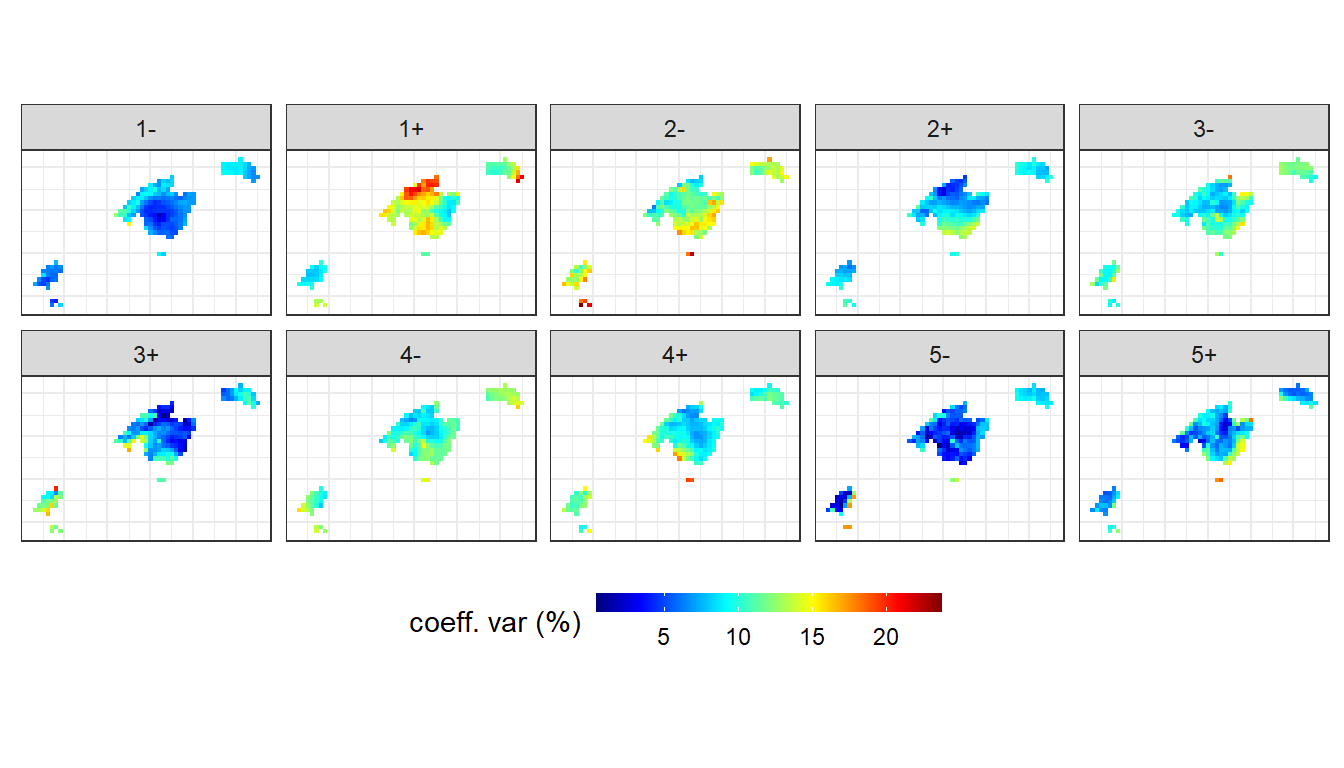
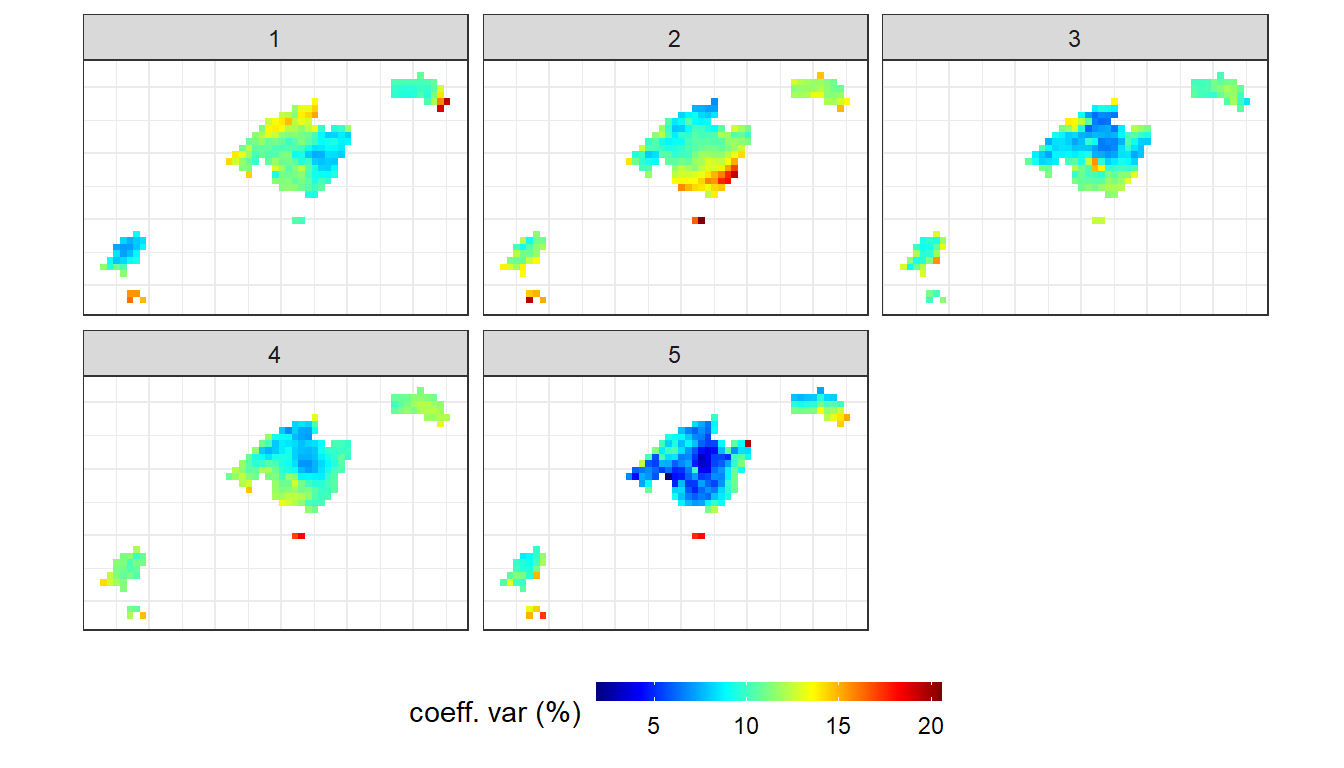
1.1.0

diff --git a/synoptreg/articles/environment-to-circulation.html b/synoptreg/articles/environment-to-circulation.html
@@ -31,7 +31,7 @@
       </button>
       <span class="navbar-brand">
         <a class="navbar-link" href="../index.html">synoptReg</a>
-        <span class="version label label-default" data-toggle="tooltip" data-placement="bottom" title="Released version">1.0.2</span>
+        <span class="version label label-default" data-toggle="tooltip" data-placement="bottom" title="Released version">1.0.1</span>
       </span>
     </div>
 
@@ -84,7 +84,7 @@
       <h1>Environment-To-Circulation</h1>
                         <h4 class="author">Marc Lemus-Canovas</h4>
             
-            <h4 class="date">2020-08-25</h4>
+            <h4 class="date">2020-08-24</h4>
       
       
       <div class="hidden name"><code>environment-to-circulation.Rmd</code></div>
@@ -253,7 +253,7 @@
 <a class="sourceLine" id="cb5-63" title="63"><span class="co">#&gt;  9 slp     5      55 2000-09-04 1+          101913.             277.</span></a>
 <a class="sourceLine" id="cb5-64" title="64"><span class="co">#&gt; 10 slp     7.5    55 2000-09-04 1+          101781.             145.</span></a>
 <a class="sourceLine" id="cb5-65" title="65"><span class="co">#&gt; # ... with 4,280 more rows, and 1 more variable: cv_WT_value &lt;dbl&gt;</span></a></code></pre></div>
-<p>The object returned by <code>synoptclas</code> differs relatively from the object returned when we apply a classification in <code>"S-mode"</code>. This time, the output is a list with 4 objects: 2 objects are <code>tibbles</code> with the variables <code>time</code> and <code>WT</code>. The difference between the two objects lies in the grouping method applied to achieve the WTs. In <code>clas_abs</code> the association is done with the absolute values of the loadings; in <code>clas_pn</code> the extreme positive and negative values are used to get the final groups. The two remaining objects are the grids classified with each of these two methods. This time we will work with the method that classifies the WTs using the positive/negative loadings (correlation coefficients).</p>
+<p>The object returned by <code>synoptclas</code> differs relatively from the object returned when we apply a classification in <code>"S-mode"</code>. This time, the output is a list with 4 objects: 2 objects are <code>tibbles</code> with the variables <code>time</code> and <code>WT</code>. The difference between the two objects lies in the grouping method applied to get the WTs. In <code>clas_abs</code> the association is done with the absolute values of the loadings; in <code>clas_pn</code> the extreme positive and negative values are used to get the final groups. The two remaining objects are the grids classified with each of these two methods. This time we will work with the method that classifies the WTs using the absolute loadings (correlation coefficients).</p>
 <p>Let’s see the result:</p>
 <div class="sourceCode" id="cb6"><pre class="sourceCode r"><code class="sourceCode r"><a class="sourceLine" id="cb6-1" title="1"><span class="kw"><a href="https://rdrr.io/r/base/library.html">library</a></span>(ggplot2) </a>
 <a class="sourceLine" id="cb6-2" title="2"><span class="kw"><a href="https://rdrr.io/r/base/library.html">library</a></span>(dplyr)</a>
@@ -264,24 +264,24 @@
 <a class="sourceLine" id="cb6-7" title="7">                                       <span class="dt">returnclass =</span> <span class="st">"sf"</span>,<span class="dt">scale =</span> <span class="dv">50</span>)</a>
 <a class="sourceLine" id="cb6-8" title="8"></a>
 <a class="sourceLine" id="cb6-9" title="9"><span class="kw">ggplot</span>()<span class="op">+</span></a>
-<a class="sourceLine" id="cb6-10" title="10"><span class="st">    </span><span class="kw">geom_raster</span>(<span class="kw"><a href="https://rdrr.io/r/stats/filter.html">filter</a></span>(cl<span class="op">$</span>grid_clas_pn, var <span class="op">==</span><span class="st"> "z500"</span>), </a>
+<a class="sourceLine" id="cb6-10" title="10"><span class="st">    </span><span class="kw">geom_raster</span>(<span class="kw"><a href="https://rdrr.io/r/stats/filter.html">filter</a></span>(cl<span class="op">$</span>grid_clas_abs, var <span class="op">==</span><span class="st"> "z500"</span>), </a>
 <a class="sourceLine" id="cb6-11" title="11">              <span class="dt">mapping =</span> <span class="kw">aes</span>(lon,lat,<span class="dt">fill =</span> mean_WT_anom_value),</a>
 <a class="sourceLine" id="cb6-12" title="12">              <span class="dt">interpolate =</span> T,<span class="dt">hjust =</span> <span class="dv">0</span>,<span class="dt">vjust =</span> <span class="dv">0</span>)<span class="op">+</span></a>
 <a class="sourceLine" id="cb6-13" title="13"><span class="st">    </span><span class="kw">geom_sf</span>(<span class="dt">data =</span> borders, <span class="dt">fill =</span> <span class="st">"transparent"</span>)<span class="op">+</span></a>
-<a class="sourceLine" id="cb6-14" title="14"><span class="st">  </span><span class="kw">geom_contour2</span>(<span class="dt">data =</span> <span class="kw"><a href="https://rdrr.io/r/stats/filter.html">filter</a></span>(cl<span class="op">$</span>grid_clas_pn,var <span class="op">==</span><span class="st"> "slp"</span>),</a>
+<a class="sourceLine" id="cb6-14" title="14"><span class="st">  </span><span class="kw">geom_contour2</span>(<span class="dt">data =</span> <span class="kw"><a href="https://rdrr.io/r/stats/filter.html">filter</a></span>(cl<span class="op">$</span>grid_clas_abs,var <span class="op">==</span><span class="st"> "slp"</span>),</a>
 <a class="sourceLine" id="cb6-15" title="15">                <span class="kw">aes</span>(<span class="dt">x=</span>lon,<span class="dt">y=</span>lat,<span class="dt">z=</span>mean_WT_value<span class="op">/</span><span class="dv">100</span>), </a>
 <a class="sourceLine" id="cb6-16" title="16">                <span class="dt">binwidth =</span> <span class="dv">4</span>, <span class="dt">color =</span> <span class="st">"black"</span>) <span class="op">+</span></a>
-<a class="sourceLine" id="cb6-17" title="17"><span class="st">  </span><span class="kw">geom_text_contour</span>(<span class="dt">data=</span> <span class="kw"><a href="https://rdrr.io/r/stats/filter.html">filter</a></span>(cl<span class="op">$</span>grid_clas_pn, var <span class="op">==</span><span class="st"> "slp"</span>),</a>
+<a class="sourceLine" id="cb6-17" title="17"><span class="st">  </span><span class="kw">geom_text_contour</span>(<span class="dt">data=</span> <span class="kw"><a href="https://rdrr.io/r/stats/filter.html">filter</a></span>(cl<span class="op">$</span>grid_clas_abs, var <span class="op">==</span><span class="st"> "slp"</span>),</a>
 <a class="sourceLine" id="cb6-18" title="18">                    <span class="kw">aes</span>(<span class="dt">x=</span>lon,<span class="dt">y=</span>lat,<span class="dt">z=</span>mean_WT_value<span class="op">/</span><span class="dv">100</span>), </a>
 <a class="sourceLine" id="cb6-19" title="19">                    <span class="dt">stroke =</span> <span class="fl">0.15</span>,<span class="dt">binwidth =</span> <span class="dv">4</span>) <span class="op">+</span></a>
-<a class="sourceLine" id="cb6-20" title="20"><span class="st">  </span><span class="kw">geom_contour2</span>(<span class="dt">data =</span> <span class="kw"><a href="https://rdrr.io/r/stats/filter.html">filter</a></span>(cl<span class="op">$</span>grid_clas_pn,var <span class="op">==</span><span class="st"> "t850"</span>), </a>
+<a class="sourceLine" id="cb6-20" title="20"><span class="st">  </span><span class="kw">geom_contour2</span>(<span class="dt">data =</span> <span class="kw"><a href="https://rdrr.io/r/stats/filter.html">filter</a></span>(cl<span class="op">$</span>grid_clas_abs,var <span class="op">==</span><span class="st"> "t850"</span>), </a>
 <a class="sourceLine" id="cb6-21" title="21">                <span class="kw">aes</span>(<span class="dt">x=</span>lon,<span class="dt">y=</span>lat,<span class="dt">z=</span>mean_WT_anom_value), </a>
 <a class="sourceLine" id="cb6-22" title="22">                <span class="dt">binwidth =</span> <span class="dv">2</span>, <span class="dt">color =</span> <span class="st">"black"</span>, <span class="dt">linetype =</span> <span class="st">"dashed"</span>) <span class="op">+</span></a>
-<a class="sourceLine" id="cb6-23" title="23"><span class="st">  </span><span class="kw">geom_text_contour</span>(<span class="dt">data=</span> <span class="kw"><a href="https://rdrr.io/r/stats/filter.html">filter</a></span>(cl<span class="op">$</span>grid_clas_pn, var <span class="op">==</span><span class="st"> "t850"</span>),</a>
+<a class="sourceLine" id="cb6-23" title="23"><span class="st">  </span><span class="kw">geom_text_contour</span>(<span class="dt">data=</span> <span class="kw"><a href="https://rdrr.io/r/stats/filter.html">filter</a></span>(cl<span class="op">$</span>grid_clas_abs, var <span class="op">==</span><span class="st"> "t850"</span>),</a>
 <a class="sourceLine" id="cb6-24" title="24">                    <span class="kw">aes</span>(<span class="dt">x=</span>lon,<span class="dt">y=</span>lat,<span class="dt">z=</span>mean_WT_anom_value), </a>
 <a class="sourceLine" id="cb6-25" title="25">                    <span class="dt">stroke =</span> <span class="fl">0.15</span>,<span class="dt">binwidth =</span> <span class="dv">2</span>) <span class="op">+</span></a>
 <a class="sourceLine" id="cb6-26" title="26"><span class="st">    </span><span class="kw">guides</span>(<span class="dt">fill =</span> <span class="kw">guide_colourbar</span>(<span class="dt">barwidth =</span> <span class="dv">9</span>, <span class="dt">barheight =</span> <span class="fl">0.5</span>))<span class="op">+</span></a>
-<a class="sourceLine" id="cb6-27" title="27"><span class="st">    </span><span class="kw">facet_wrap</span>(<span class="op">~</span>WT, <span class="dt">ncol =</span> <span class="dv">5</span>) <span class="op">+</span></a>
+<a class="sourceLine" id="cb6-27" title="27"><span class="st">    </span><span class="kw">facet_wrap</span>(<span class="op">~</span>WT, <span class="dt">ncol =</span> <span class="dv">3</span>) <span class="op">+</span></a>
 <a class="sourceLine" id="cb6-28" title="28"><span class="st">    </span><span class="kw">scale_fill_divergent</span>(<span class="dt">name =</span> <span class="st">"Z anomaly (m)"</span>) <span class="op">+</span></a>
 <a class="sourceLine" id="cb6-29" title="29"><span class="st">    </span><span class="kw">scale_x_continuous</span>(<span class="dt">limits =</span> <span class="kw"><a href="https://rdrr.io/r/base/c.html">c</a></span>(<span class="op">-</span><span class="dv">15</span>,<span class="dv">15</span>), <span class="dt">expand =</span> <span class="kw"><a href="https://rdrr.io/r/base/c.html">c</a></span>(<span class="dv">0</span>,<span class="dv">0</span>))<span class="op">+</span></a>
 <a class="sourceLine" id="cb6-30" title="30"><span class="st">    </span><span class="kw">scale_y_continuous</span>(<span class="dt">limits =</span> <span class="kw"><a href="https://rdrr.io/r/base/c.html">c</a></span>(<span class="dv">30</span>,<span class="dv">55</span>), <span class="dt">expand =</span> <span class="kw"><a href="https://rdrr.io/r/base/c.html">c</a></span>(<span class="dv">0</span>,<span class="dv">0</span>))<span class="op">+</span></a>
@@ -289,7 +289,7 @@
 <a class="sourceLine" id="cb6-32" title="32">                       <span class="dt">axis.text =</span> <span class="kw">element_blank</span>(),</a>
 <a class="sourceLine" id="cb6-33" title="33">                       <span class="dt">axis.ticks =</span> <span class="kw">element_blank</span>(),</a>
 <a class="sourceLine" id="cb6-34" title="34">                       <span class="dt">legend.position =</span> <span class="st">"bottom"</span>)</a>
-<a class="sourceLine" id="cb6-35" title="35"><span class="co">#&gt; Warning: Removed 230 rows containing missing values (geom_raster).</span></a></code></pre></div>
+<a class="sourceLine" id="cb6-35" title="35"><span class="co">#&gt; Warning: Removed 115 rows containing missing values (geom_raster).</span></a></code></pre></div>
 <p><img src="environment-to-circulation_files/figure-html/unnamed-chunk-6-1.png" width="672"></p>
 </div>
 </div>
@@ -297,14 +297,14 @@
 <h1 class="hasAnchor">
 <a href="#analysing-the-spatial-contribution-of-each-wt-to-torrential-rainfall-in-the-balearic-islands" class="anchor"></a>Analysing the spatial contribution of each WT to torrential rainfall in the Balearic Islands</h1>
 <p>We can then calculate the maximum precipitation associated with these CT/WT. To do this we will use the function <code><a href="../reference/ct2env.html">ct2env()</a></code> indicating in the argument <code>fun</code> the function <code>max</code>:</p>
-<div class="sourceCode" id="cb7"><pre class="sourceCode r"><code class="sourceCode r"><a class="sourceLine" id="cb7-1" title="1">max_torrential_pcp &lt;-<span class="st"> </span><span class="kw"><a href="../reference/ct2env.html">ct2env</a></span>(pcp,<span class="dt">clas =</span> cl<span class="op">$</span>clas_pn,<span class="dt">fun =</span> max,<span class="dt">out =</span> <span class="st">"data.frame"</span>)</a>
+<div class="sourceCode" id="cb7"><pre class="sourceCode r"><code class="sourceCode r"><a class="sourceLine" id="cb7-1" title="1">max_torrential_pcp &lt;-<span class="st"> </span><span class="kw"><a href="../reference/ct2env.html">ct2env</a></span>(pcp,<span class="dt">clas =</span> cl<span class="op">$</span>clas_abs,<span class="dt">fun =</span> max,<span class="dt">out =</span> <span class="st">"data.frame"</span>)</a>
 <a class="sourceLine" id="cb7-2" title="2"></a>
 <a class="sourceLine" id="cb7-3" title="3"><span class="kw">ggplot</span>() <span class="op">+</span><span class="st"> </span></a>
 <a class="sourceLine" id="cb7-4" title="4"><span class="st">  </span><span class="kw">geom_tile</span>(<span class="dt">data=</span>max_torrential_pcp, <span class="kw">aes</span>(<span class="dt">x=</span>lon, <span class="dt">y=</span>lat,<span class="dt">fill=</span>calc<span class="op">/</span><span class="dv">10</span>)) <span class="op">+</span><span class="st"> </span></a>
 <a class="sourceLine" id="cb7-5" title="5"><span class="st">  </span><span class="kw">scale_fill_gradientn</span>(<span class="dt">colours =</span> <span class="kw"><a href="https://rdrr.io/r/base/rev.html">rev</a></span>(pals<span class="op">::</span><span class="kw"><a href="https://rdrr.io/pkg/pals/man/niccoli.html">linearl</a></span>(<span class="dv">100</span>)), </a>
 <a class="sourceLine" id="cb7-6" title="6">  <span class="dt">name =</span> <span class="st">"rainfall (mm/day)"</span>,<span class="dt">na.value=</span><span class="st">"transparent"</span>) <span class="op">+</span><span class="st"> </span></a>
 <a class="sourceLine" id="cb7-7" title="7"><span class="st">  </span><span class="kw">coord_equal</span>()<span class="op">+</span></a>
-<a class="sourceLine" id="cb7-8" title="8"><span class="st">  </span><span class="kw">scale_colour_gradient</span>(<span class="dt">guide =</span> <span class="st">'none'</span>) <span class="op">+</span><span class="st"> </span><span class="kw">facet_wrap</span>(<span class="op">~</span>WT, <span class="dt">ncol =</span> <span class="dv">5</span>) <span class="op">+</span></a>
+<a class="sourceLine" id="cb7-8" title="8"><span class="st">  </span><span class="kw">scale_colour_gradient</span>(<span class="dt">guide =</span> <span class="st">'none'</span>) <span class="op">+</span><span class="st"> </span><span class="kw">facet_wrap</span>(<span class="op">~</span>WT, <span class="dt">ncol =</span> <span class="dv">3</span>) <span class="op">+</span></a>
 <a class="sourceLine" id="cb7-9" title="9"><span class="st">  </span><span class="kw">guides</span>(<span class="dt">fill =</span> <span class="kw">guide_colourbar</span>(<span class="dt">barwidth =</span> <span class="dv">9</span>, <span class="dt">barheight =</span> <span class="fl">0.5</span>))<span class="op">+</span></a>
 <a class="sourceLine" id="cb7-10" title="10"><span class="st">  </span><span class="kw">theme_bw</span>() <span class="op">+</span><span class="st"> </span><span class="kw">theme</span>(<span class="dt">axis.title =</span> <span class="kw">element_blank</span>(), </a>
 <a class="sourceLine" id="cb7-11" title="11">                     <span class="dt">axis.text =</span> <span class="kw">element_blank</span>(),</a>
@@ -313,7 +313,7 @@
 <p><img src="environment-to-circulation_files/figure-html/unnamed-chunk-7-1.png" width="672"></p>
 <p>In addition, we can assess the spatial variability of this torrential events by creating the function of the coefficient of variation (cv) in the <code>fun</code> argument:</p>
 <div class="sourceCode" id="cb8"><pre class="sourceCode r"><code class="sourceCode r"><a class="sourceLine" id="cb8-1" title="1">cv_torrential_pcp &lt;-<span class="st"> </span><span class="kw"><a href="../reference/ct2env.html">ct2env</a></span>(pcp,</a>
-<a class="sourceLine" id="cb8-2" title="2">                            <span class="dt">clas =</span> cl<span class="op">$</span>clas_pn,</a>
+<a class="sourceLine" id="cb8-2" title="2">                            <span class="dt">clas =</span> cl<span class="op">$</span>clas_abs,</a>
 <a class="sourceLine" id="cb8-3" title="3">                            <span class="dt">fun =</span> <span class="cf">function</span>(x){<span class="kw"><a href="https://rdrr.io/r/stats/sd.html">sd</a></span>(x)<span class="op">/</span><span class="kw"><a href="https://rdrr.io/r/base/mean.html">mean</a></span>(x)<span class="op">*</span><span class="dv">100</span>},</a>
 <a class="sourceLine" id="cb8-4" title="4">                            <span class="dt">out =</span> <span class="st">"data.frame"</span>)</a>
 <a class="sourceLine" id="cb8-5" title="5"></a>
@@ -322,7 +322,7 @@
 <a class="sourceLine" id="cb8-8" title="8"><span class="st">  </span><span class="kw">scale_fill_gradientn</span>(<span class="dt">colours =</span> pals<span class="op">::</span><span class="kw"><a href="https://rdrr.io/pkg/pals/man/continuous.html">jet</a></span>(<span class="dv">100</span>), </a>
 <a class="sourceLine" id="cb8-9" title="9">  <span class="dt">name =</span> <span class="st">"coeff. var (%)"</span>,<span class="dt">na.value=</span><span class="st">"transparent"</span>) <span class="op">+</span><span class="st"> </span></a>
 <a class="sourceLine" id="cb8-10" title="10"><span class="st">  </span><span class="kw">coord_equal</span>()<span class="op">+</span></a>
-<a class="sourceLine" id="cb8-11" title="11"><span class="st">  </span><span class="kw">scale_colour_gradient</span>(<span class="dt">guide =</span> <span class="st">'none'</span>) <span class="op">+</span><span class="st"> </span><span class="kw">facet_wrap</span>(<span class="op">~</span>WT, <span class="dt">ncol =</span> <span class="dv">5</span>) <span class="op">+</span></a>
+<a class="sourceLine" id="cb8-11" title="11"><span class="st">  </span><span class="kw">scale_colour_gradient</span>(<span class="dt">guide =</span> <span class="st">'none'</span>) <span class="op">+</span><span class="st"> </span><span class="kw">facet_wrap</span>(<span class="op">~</span>WT, <span class="dt">ncol =</span> <span class="dv">3</span>) <span class="op">+</span></a>
 <a class="sourceLine" id="cb8-12" title="12"><span class="st">  </span><span class="kw">guides</span>(<span class="dt">fill =</span> <span class="kw">guide_colourbar</span>(<span class="dt">barwidth =</span> <span class="dv">9</span>, <span class="dt">barheight =</span> <span class="fl">0.5</span>))<span class="op">+</span></a>
 <a class="sourceLine" id="cb8-13" title="13"><span class="st">  </span><span class="kw">theme_bw</span>() <span class="op">+</span><span class="st"> </span><span class="kw">theme</span>(<span class="dt">axis.title =</span> <span class="kw">element_blank</span>(), </a>
 <a class="sourceLine" id="cb8-14" title="14">                     <span class="dt">axis.text =</span> <span class="kw">element_blank</span>(),</a>

diff --git a/synoptreg/authors.html b/synoptreg/authors.html
@@ -67,7 +67,7 @@
       </button>
       <span class="navbar-brand">
         <a class="navbar-link" href="index.html">synoptReg</a>
-        <span class="version label label-default" data-toggle="tooltip" data-placement="bottom" title="Released version">1.0.2</span>
+        <span class="version label label-default" data-toggle="tooltip" data-placement="bottom" title="Released version">1.0.1</span>
       </span>
     </div>
 
@@ -126,7 +126,7 @@
     <p>Lemus-Canovas M, Lopez-Bustins JA, Martin-Vide J, RoyÃ© D (2019).
 &ldquo;synoptReg: An R package for computing a synoptic climate classification and a spatial regionalization of environmental data.&rdquo;
 <em>Environmental Modelling &amp; Software</em>, <b>118</b>, 114 - 119.
-ISSN 1364-8152, doi: <a href="https://doi.org/10.1016/j.envsoft.2019.04.006">10.1016/j.envsoft.2019.04.006</a>, <a href="https://www.sciencedirect.com/science/article/abs/pii/S1364815219300064">https://www.sciencedirect.com/science/article/abs/pii/S1364815219300064</a>. 
+ISSN 1364-8152, doi: <a href="https://doi.org/10.1016/j.envsoft.2019.04.006">10.1016/j.envsoft.2019.04.006</a>, <a href="http://www.sciencedirect.com/science/article/pii/S1364815219300064">http://www.sciencedirect.com/science/article/pii/S1364815219300064</a>. 
 </p>
     <pre>@Article{,
   title = {synoptReg: An R package for computing a synoptic climate classification and a spatial regionalization of environmental data},
@@ -136,7 +136,7 @@ ISSN 1364-8152, doi: <a href="https://doi.org/10.1016/j.envsoft.2019.04.006">10.
   year = {2019},
   issn = {1364-8152},
   doi = {10.1016/j.envsoft.2019.04.006},
-  url = {https://www.sciencedirect.com/science/article/abs/pii/S1364815219300064},
+  url = {http://www.sciencedirect.com/science/article/pii/S1364815219300064},
   author = {Marc Lemus-Canovas and Joan A. Lopez-Bustins and Javier Martin-Vide and Dominic Royé},
 }</pre>
 

diff --git a/synoptreg/articles/classification_metrics.html b/synoptreg/articles/classification_metrics.html
@@ -31,7 +31,7 @@
       </button>
       <span class="navbar-brand">
         <a class="navbar-link" href="../index.html">synoptReg</a>
-        <span class="version label label-default" data-toggle="tooltip" data-placement="bottom" title="Released version">1.0.2</span>
+        <span class="version label label-default" data-toggle="tooltip" data-placement="bottom" title="Released version">1.0.1</span>
       </span>
     </div>
 
@@ -84,7 +84,7 @@
       <h1>Extracting metrics from the synoptic classification</h1>
                         <h4 class="author">Marc Lemus-Canovas</h4>
             
-            <h4 class="date">2020-08-25</h4>
+            <h4 class="date">2020-08-24</h4>
       
       
       <div class="hidden name"><code>classification_metrics.Rmd</code></div>

diff --git a/synoptreg/articles/circulation-to-environment.html b/synoptreg/articles/circulation-to-environment.html
@@ -31,7 +31,7 @@
       </button>
       <span class="navbar-brand">
         <a class="navbar-link" href="../index.html">synoptReg</a>
-        <span class="version label label-default" data-toggle="tooltip" data-placement="bottom" title="Released version">1.0.2</span>
+        <span class="version label label-default" data-toggle="tooltip" data-placement="bottom" title="Released version">1.0.1</span>
       </span>
     </div>
 
@@ -84,7 +84,7 @@
       <h1>Circulation-To-Environment</h1>
                         <h4 class="author">Marc Lemus-Canovas</h4>
             
-            <h4 class="date">2020-08-25</h4>
+            <h4 class="date">2020-08-24</h4>
       
       
       <div class="hidden name"><code>circulation-to-environment.Rmd</code></div>

diff --git a/synoptreg/reference/pcp.html b/synoptreg/reference/pcp.html
@@ -71,7 +71,7 @@ This data corresponds to daily values of precipitation with a spatial resolution
       </button>
       <span class="navbar-brand">
         <a class="navbar-link" href="../index.html">synoptReg</a>
-        <span class="version label label-default" data-toggle="tooltip" data-placement="bottom" title="Released version">1.0.2</span>
+        <span class="version label label-default" data-toggle="tooltip" data-placement="bottom" title="Released version">1.0.1</span>
       </span>
     </div>
 

diff --git a/synoptreg/reference/tidy_nc.html b/synoptreg/reference/tidy_nc.html
@@ -72,7 +72,7 @@ It is mandatory to pass the tidy_nc even if you do not want to change the time p
       </button>
       <span class="navbar-brand">
         <a class="navbar-link" href="../index.html">synoptReg</a>
-        <span class="version label label-default" data-toggle="tooltip" data-placement="bottom" title="Released version">1.0.2</span>
+        <span class="version label label-default" data-toggle="tooltip" data-placement="bottom" title="Released version">1.0.1</span>
       </span>
     </div>
 

diff --git a/synoptreg/reference/z500.html b/synoptreg/reference/z500.html
@@ -71,7 +71,7 @@ This data corresponds to global daily values of 500 hPa geopotential height with
       </button>
       <span class="navbar-brand">
         <a class="navbar-link" href="../index.html">synoptReg</a>
-        <span class="version label label-default" data-toggle="tooltip" data-placement="bottom" title="Released version">1.0.2</span>
+        <span class="version label label-default" data-toggle="tooltip" data-placement="bottom" title="Released version">1.0.1</span>
       </span>
     </div>
 

diff --git a/synoptreg/articles/index.html b/synoptreg/articles/index.html
@@ -67,7 +67,7 @@
       </button>
       <span class="navbar-brand">
         <a class="navbar-link" href="../index.html">synoptReg</a>
-        <span class="version label label-default" data-toggle="tooltip" data-placement="bottom" title="Released version">1.0.2</span>
+        <span class="version label label-default" data-toggle="tooltip" data-placement="bottom" title="Released version">1.0.1</span>
       </span>
     </div>
 

diff --git a/synoptreg/news/index.html b/synoptreg/news/index.html
@@ -67,7 +67,7 @@
       </button>
       <span class="navbar-brand">
         <a class="navbar-link" href="../index.html">synoptReg</a>
-        <span class="version label label-default" data-toggle="tooltip" data-placement="bottom" title="Released version">1.0.2</span>
+        <span class="version label label-default" data-toggle="tooltip" data-placement="bottom" title="Released version">1.0.1</span>
       </span>
     </div>
 

diff --git a/synoptreg/reference/ct2env.html b/synoptreg/reference/ct2env.html
@@ -69,7 +69,7 @@
       </button>
       <span class="navbar-brand">
         <a class="navbar-link" href="../index.html">synoptReg</a>
-        <span class="version label label-default" data-toggle="tooltip" data-placement="bottom" title="Released version">1.0.2</span>
+        <span class="version label label-default" data-toggle="tooltip" data-placement="bottom" title="Released version">1.0.1</span>
       </span>
     </div>
 

diff --git a/synoptreg/reference/download_ncep.html b/synoptreg/reference/download_ncep.html
@@ -69,7 +69,7 @@
       </button>
       <span class="navbar-brand">
         <a class="navbar-link" href="../index.html">synoptReg</a>
-        <span class="version label label-default" data-toggle="tooltip" data-placement="bottom" title="Released version">1.0.2</span>
+        <span class="version label label-default" data-toggle="tooltip" data-placement="bottom" title="Released version">1.0.1</span>
       </span>
     </div>
 
